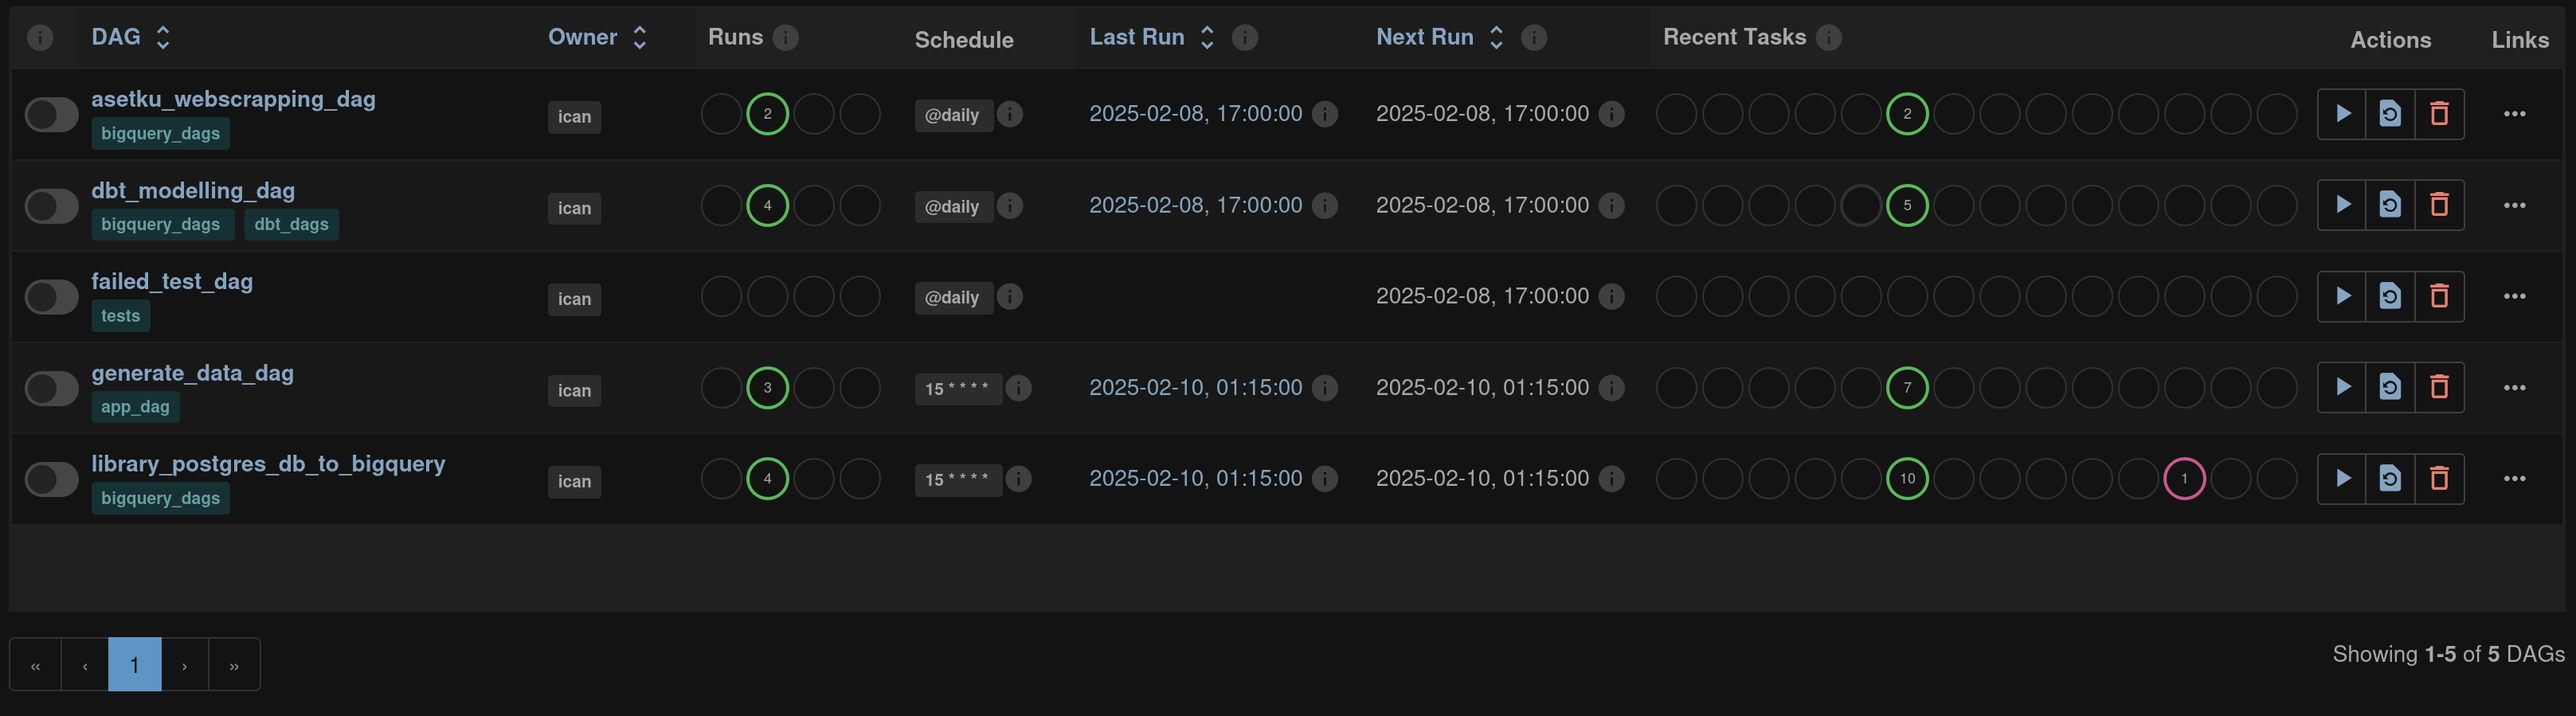
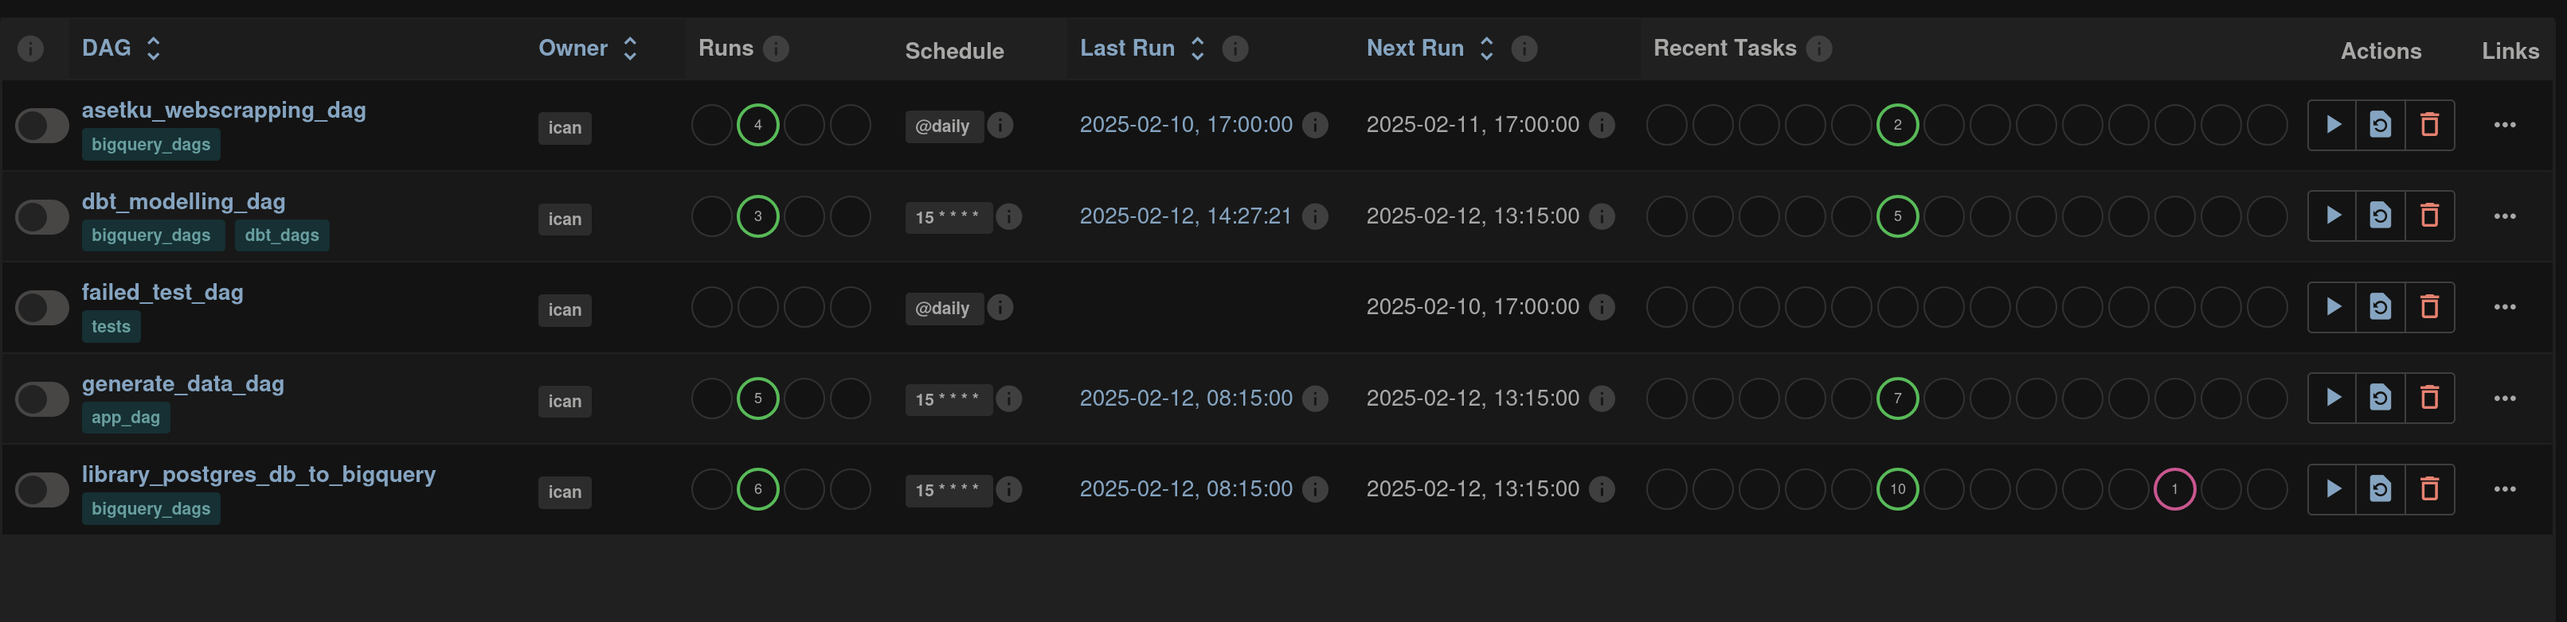
final

diff --git a/prod_airflow_service/airflow/dags/dbt_modelling_dag.py b/prod_airflow_service/airflow/dags/dbt_modelling_dag.py
@@ -51,7 +51,7 @@ def create_dag():
         start_date=datetime(2025, 2, 2),
         tags=['bigquery_dags', 'dbt_dags'],
         default_args=default_args,
-        schedule_interval='@daily',
+        schedule_interval='15 * * * *', # setiap jam dalam menit ke 15 (01.15, 02.15, seterusnya..)
         catchup=False) as dag:
 
         with TaskGroup("models", dag=dag) as models:
